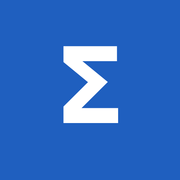
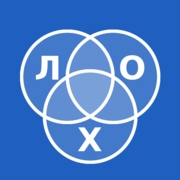
feat: перейменовано на «Колохвіум», нова іконка — діаграма Венна
Три кола, що перетинаються, з літерами Л, О, Х.
Піднято версію кешу service worker, щоб встановлені
застосунки підтягнули нову назву й іконку.

diff --git a/index.html b/index.html
@@ -3,7 +3,7 @@
 <head>
 <meta charset="utf-8">
 <meta name="viewport" content="width=device-width,initial-scale=1,viewport-fit=cover">
-<title>Колоквіум · Варіант</title>
+<title>Колохвіум · Варіант</title>
 <link rel="manifest" href="manifest.webmanifest">
 <link rel="apple-touch-icon" href="apple-touch-icon.png">
 <meta name="theme-color" content="#1f5fbf">
@@ -11,7 +11,7 @@
 <!-- iOS: без цього «На екран Домівки» відкривається у звичайному Safari з адресним рядком -->
 <meta name="apple-mobile-web-app-capable" content="yes">
 <meta name="apple-mobile-web-app-status-bar-style" content="black-translucent">
-<meta name="apple-mobile-web-app-title" content="Колоквіум">
+<meta name="apple-mobile-web-app-title" content="Колохвіум">
 <style>
 :root{
   --bg:#f6f7f9; --card:#fff; --ink:#15181d; --mut:#5c6471; --line:#dfe3e9;
@@ -135,7 +135,7 @@ footer{color:var(--mut);font-size:.8rem;text-align:center;margin-top:34px;line-h
 <div class="wrap">
 
 <header>
-  <h1>Колоквіум · дискретна математика</h1>
+  <h1>Колохвіум · дискретна математика</h1>
   <p class="sub">Введи номер варіанту — отримаєш свої 6 питань з відповідями.</p>
 </header>
 

diff --git a/sw.js b/sw.js
@@ -1,5 +1,5 @@
 /* Офлайн-кеш. Змінити CACHE при оновленні сторінки. */
-const CACHE = 'kolok-v1';
+const CACHE = 'kolok-v2';
 const ASSETS = ['./', './index.html', './manifest.webmanifest', './icon-192.png', './icon-512.png'];
 
 self.addEventListener('install', e => {

diff --git a/README.md b/README.md
@@ -1,4 +1,4 @@
-# Колоквіум · дискретна математика
+# Колохвіум · дискретна математика
 
 Вводиш номер варіанту — сторінка рахує `mod*` і показує твої 6 питань разом з повними відповідями.
 
